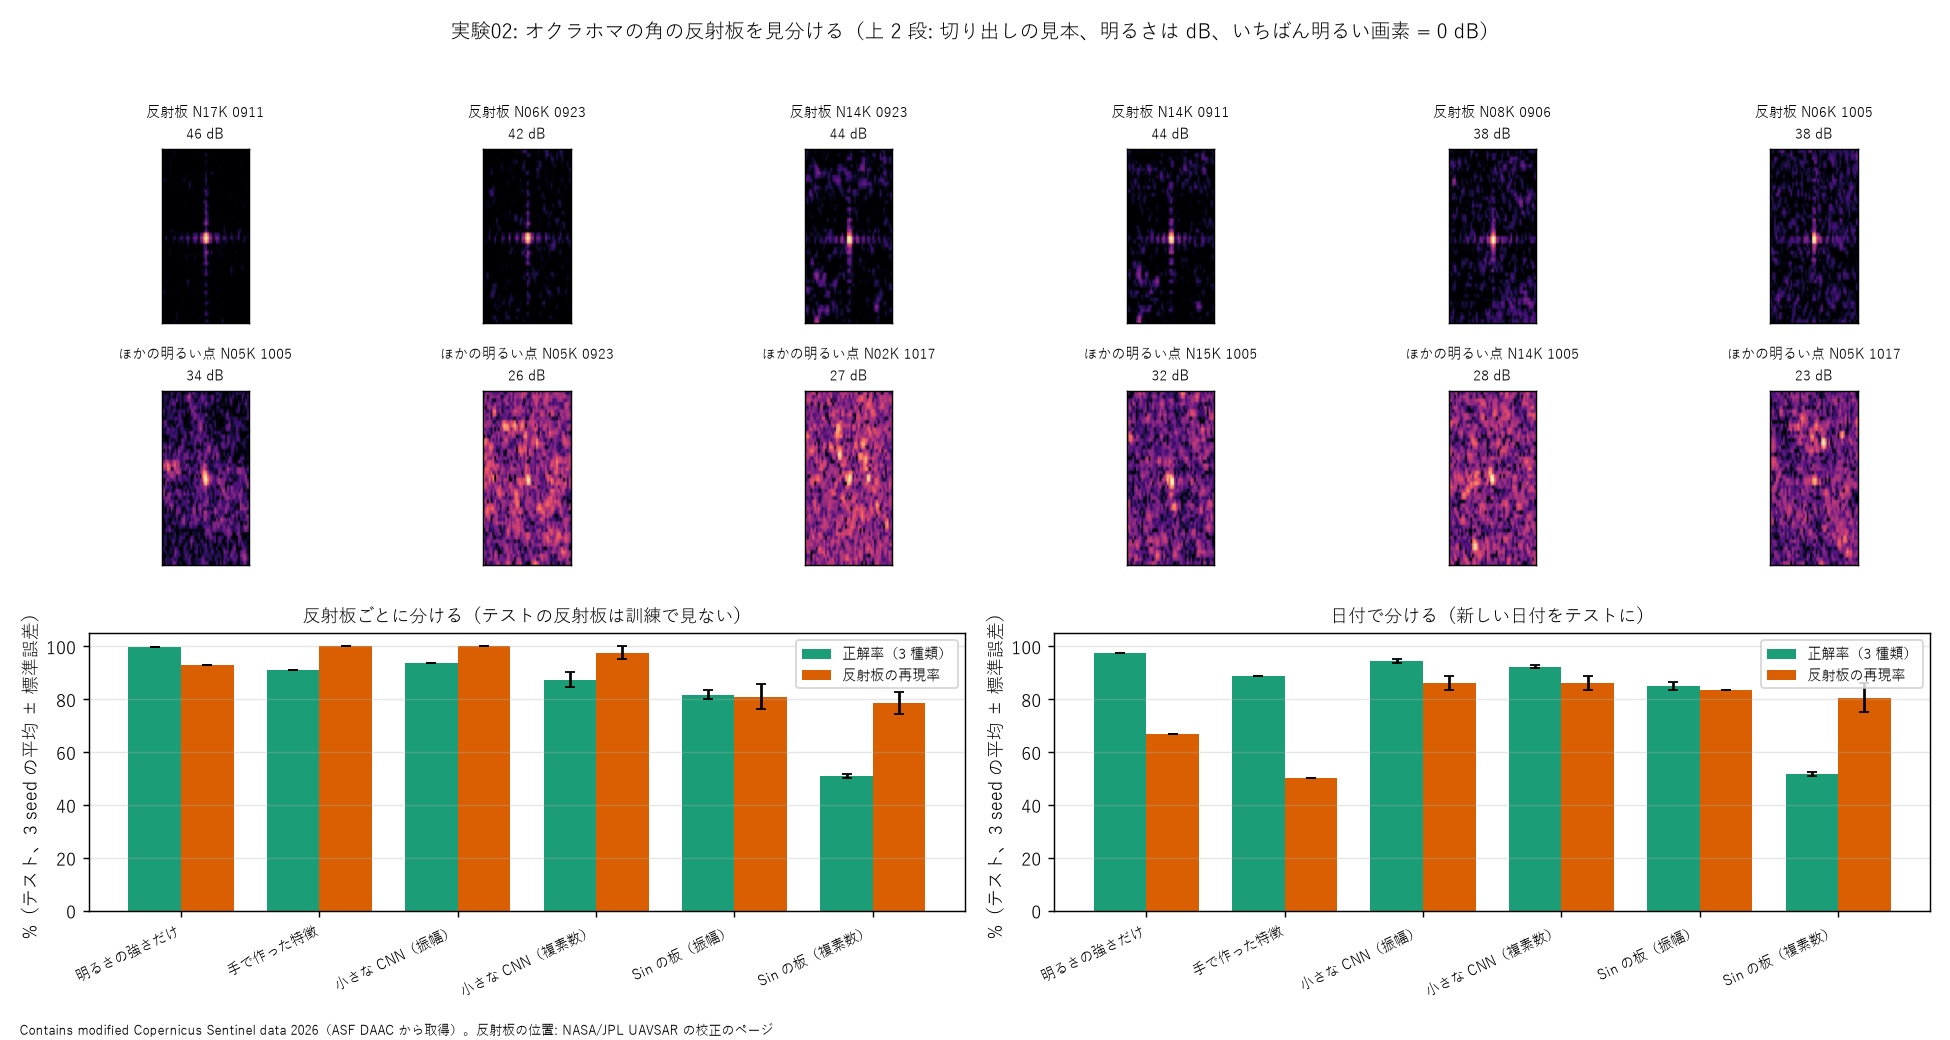
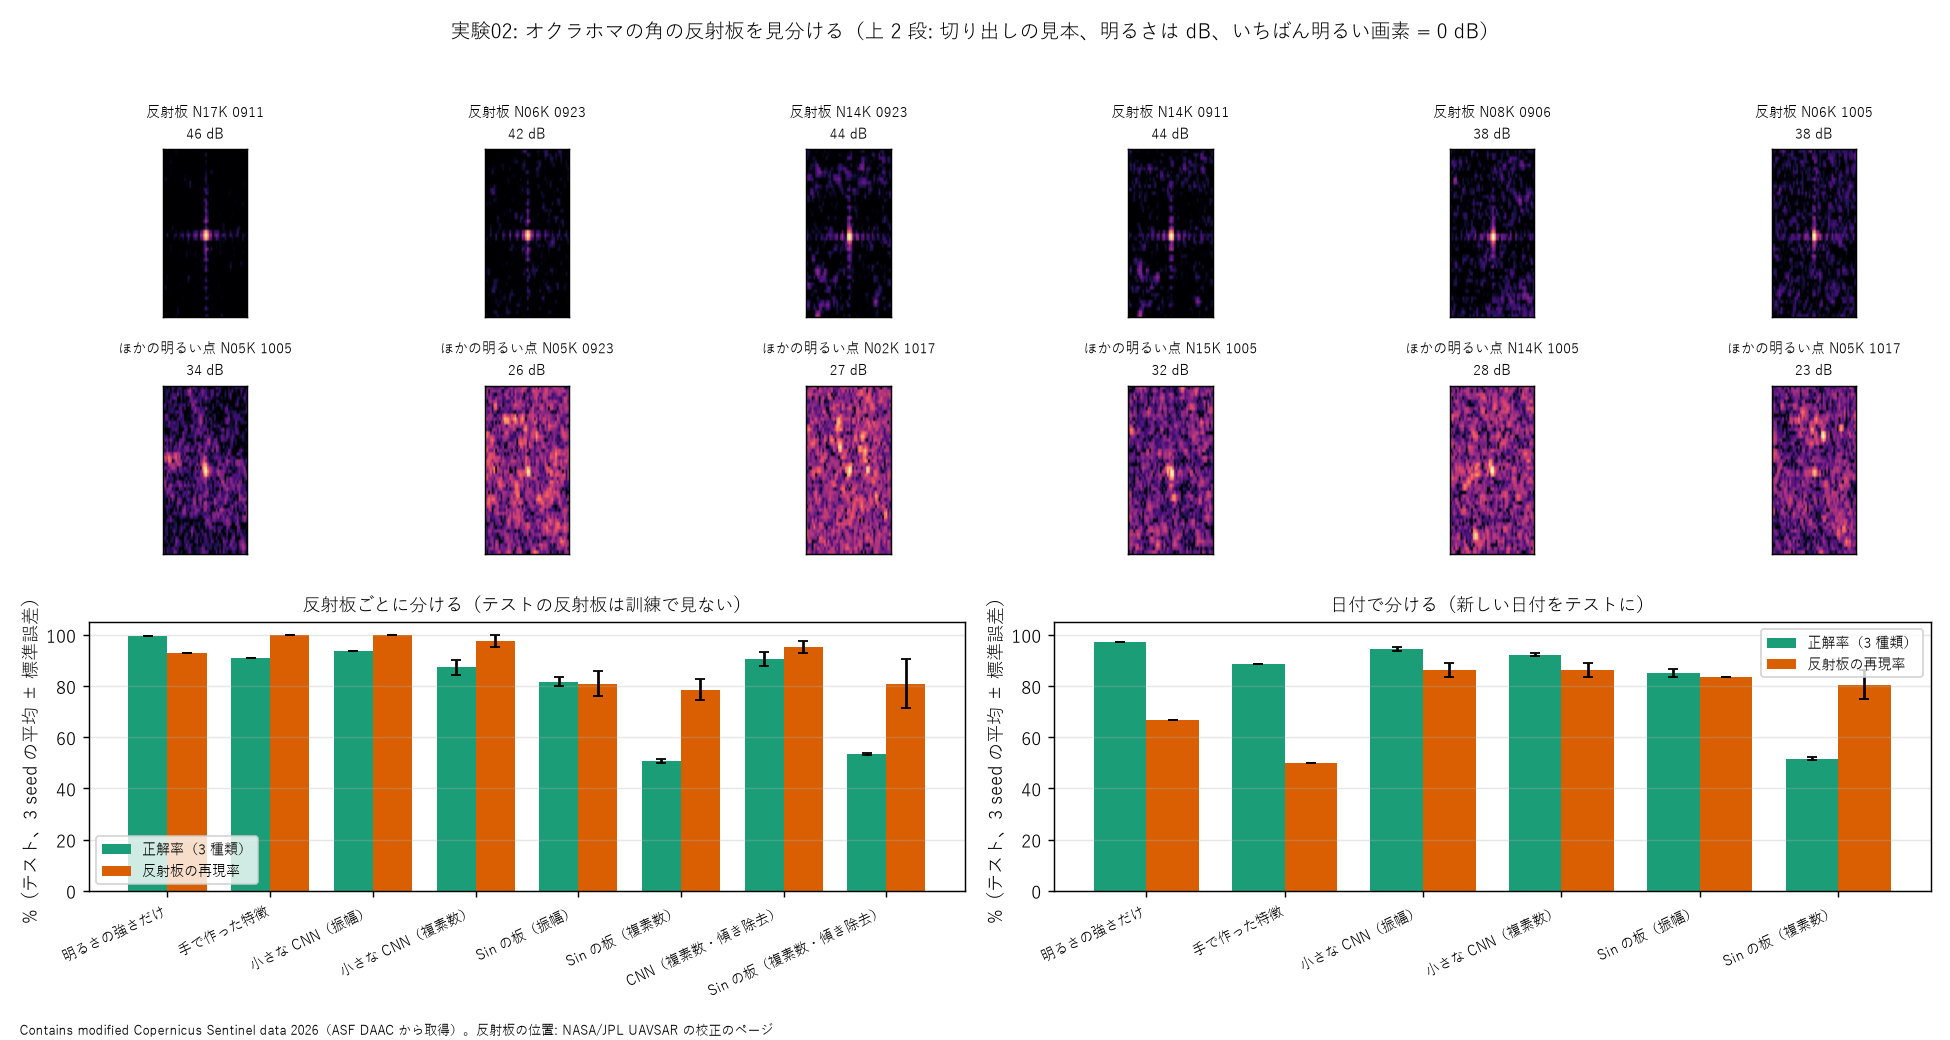
実験02 の確かめ: 位相の傾きを取り除いても Sin の板（複素数）は 53.3% でほぼ戻らない（見立て 1 は外れ）

diff --git a/tools/fig_exp02.py b/tools/fig_exp02.py
@@ -21,13 +21,20 @@ from zuikoh.config import data_dir  # noqa: E402
 
 plt.rcParams["font.family"] = ["Yu Gothic", "MS Gothic", "Meiryo", "sans-serif"]
 NAMES = {"scr": "明るさの強さだけ", "feat": "手で作った特徴", "cnn_amp": "小さな CNN（振幅）", "cnn": "小さな CNN（複素数）",
-         "sin_amp": "Sin の板（振幅）", "sin": "Sin の板（複素数）"}
+         "sin_amp": "Sin の板（振幅）", "sin": "Sin の板（複素数）",
+         "cnn_rc": "CNN（複素数・傾き除去）", "sin_rc": "Sin の板（複素数・傾き除去）"}
 
 
 def main():
     recs = [json.loads(x) for x in open(os.path.join(ROOT, "results", "exp02.txt"), encoding="utf-8")]
     # 同じ (条件, 分け方, seed) が 2 回あるとき（CPU で途中まで回した分と GPU で回し直した分）は、新しいほうだけを使う
     recs = list({(r["model"], r["split"], r["seed"]): r for r in recs}.values())
+    rc = os.path.join(ROOT, "results", "exp02r.txt")             # 位相の傾きを取り除いた確かめ（sweep02r.sh）
+    if os.path.exists(rc):
+        for x in open(rc, encoding="utf-8"):
+            r = json.loads(x)
+            r["model"] = r["model"] + "_rc"
+            recs.append(r)
     D = torch.load(data_dir() / "processed" / "cr_chips" / "chips.pt", weights_only=False)
     fig = plt.figure(figsize=(15, 8))
     gs = fig.add_gridspec(3, 6, height_ratios=[1, 1, 1.6])

diff --git a/NOTES.md b/NOTES.md
@@ -285,7 +285,9 @@
 - **結論: 反射板は、明るさをそろえても形（十字のぼけ）だけで見分けられる（CNN（振幅）は見たことのない反射板でも見落としなし・誤りなし）。ただし Sin の板は CNN に届かず（81.7 対 93.7%）、複素数のまま入れると偶然並みに崩れた（50.8%）。** 明るさの強さだけでも 99.7% なので、この課題は「反射板は明るい」で解けてしまう。形の学習の課題としては、明るさをそろえた条件の値を見る
 - **考察（Sin の板が複素数で崩れた理由の見立て）**:
   1. **SLC の位相の傾き（いちばん疑わしい）**: Sentinel-1 の IW の SLC は、進行方向の周波数の中心が場所によって動く（est_02 で進行方向のぼけが崩れたのと同じ原因）。光の場では「斜めから照らす」のと同じで、レンズの後の像がまるごと横にずれる。Sin の板はスクリーンの決まった窓の明るさで答えるので、像がずれると答えがでたらめになる。振幅だけにすると傾きが消えて 81.7% に戻るのと合う。CNN は位置のずれに強い（畳み込み + 最大）ので、複素数でも 87% に留まる。
-     確かめ方: 切り出しごとに周波数の重心を 0 に戻す（--recenter、簡単な deramp）。回している（sweep02r.sh）
+     確かめ方: 切り出しごとに周波数の重心を 0 に戻す（--recenter、簡単な deramp）。
+     **結果（sweep02r.sh、反射板ごと、3 seed）: Sin の板（複素数）53.3±0.4%（再現率 81.0・適合率 27.9）、CNN（複素数）90.5±2.6%。Sin の板はほとんど戻らなかった → 見立て 1 は外れ（少なくとも主な原因ではない）。** 残る候補は 2（斑点のでたらめな位相）。振幅だけにすると 81.7% に戻ることと合う。
+     ただし、斑点の多い切り出しでは周波数の重心の見積もりそのものがぶれるので、軌道の情報を使った正式な deramp で確かめ直す余地はある
   2. 斑点の位相はでたらめで、Sin の板にとっては「でたらめな位相の板」を 1 枚足したのと同じになる。振幅にすれば消える
   3. 学習する数が CNN より少ない（1,028 対 1,659〜1,959）。ただし差は 2 倍以内で、崩れ方（50%）を説明するには小さい
 - 日付で分けると、明るさだけ・手で作った特徴の再現率が下がる（67%・50%）。新しい日付の反射板には、107 番の軌道（別の角度）のものが多く、明るさや形の目安がずれたと考えられる
